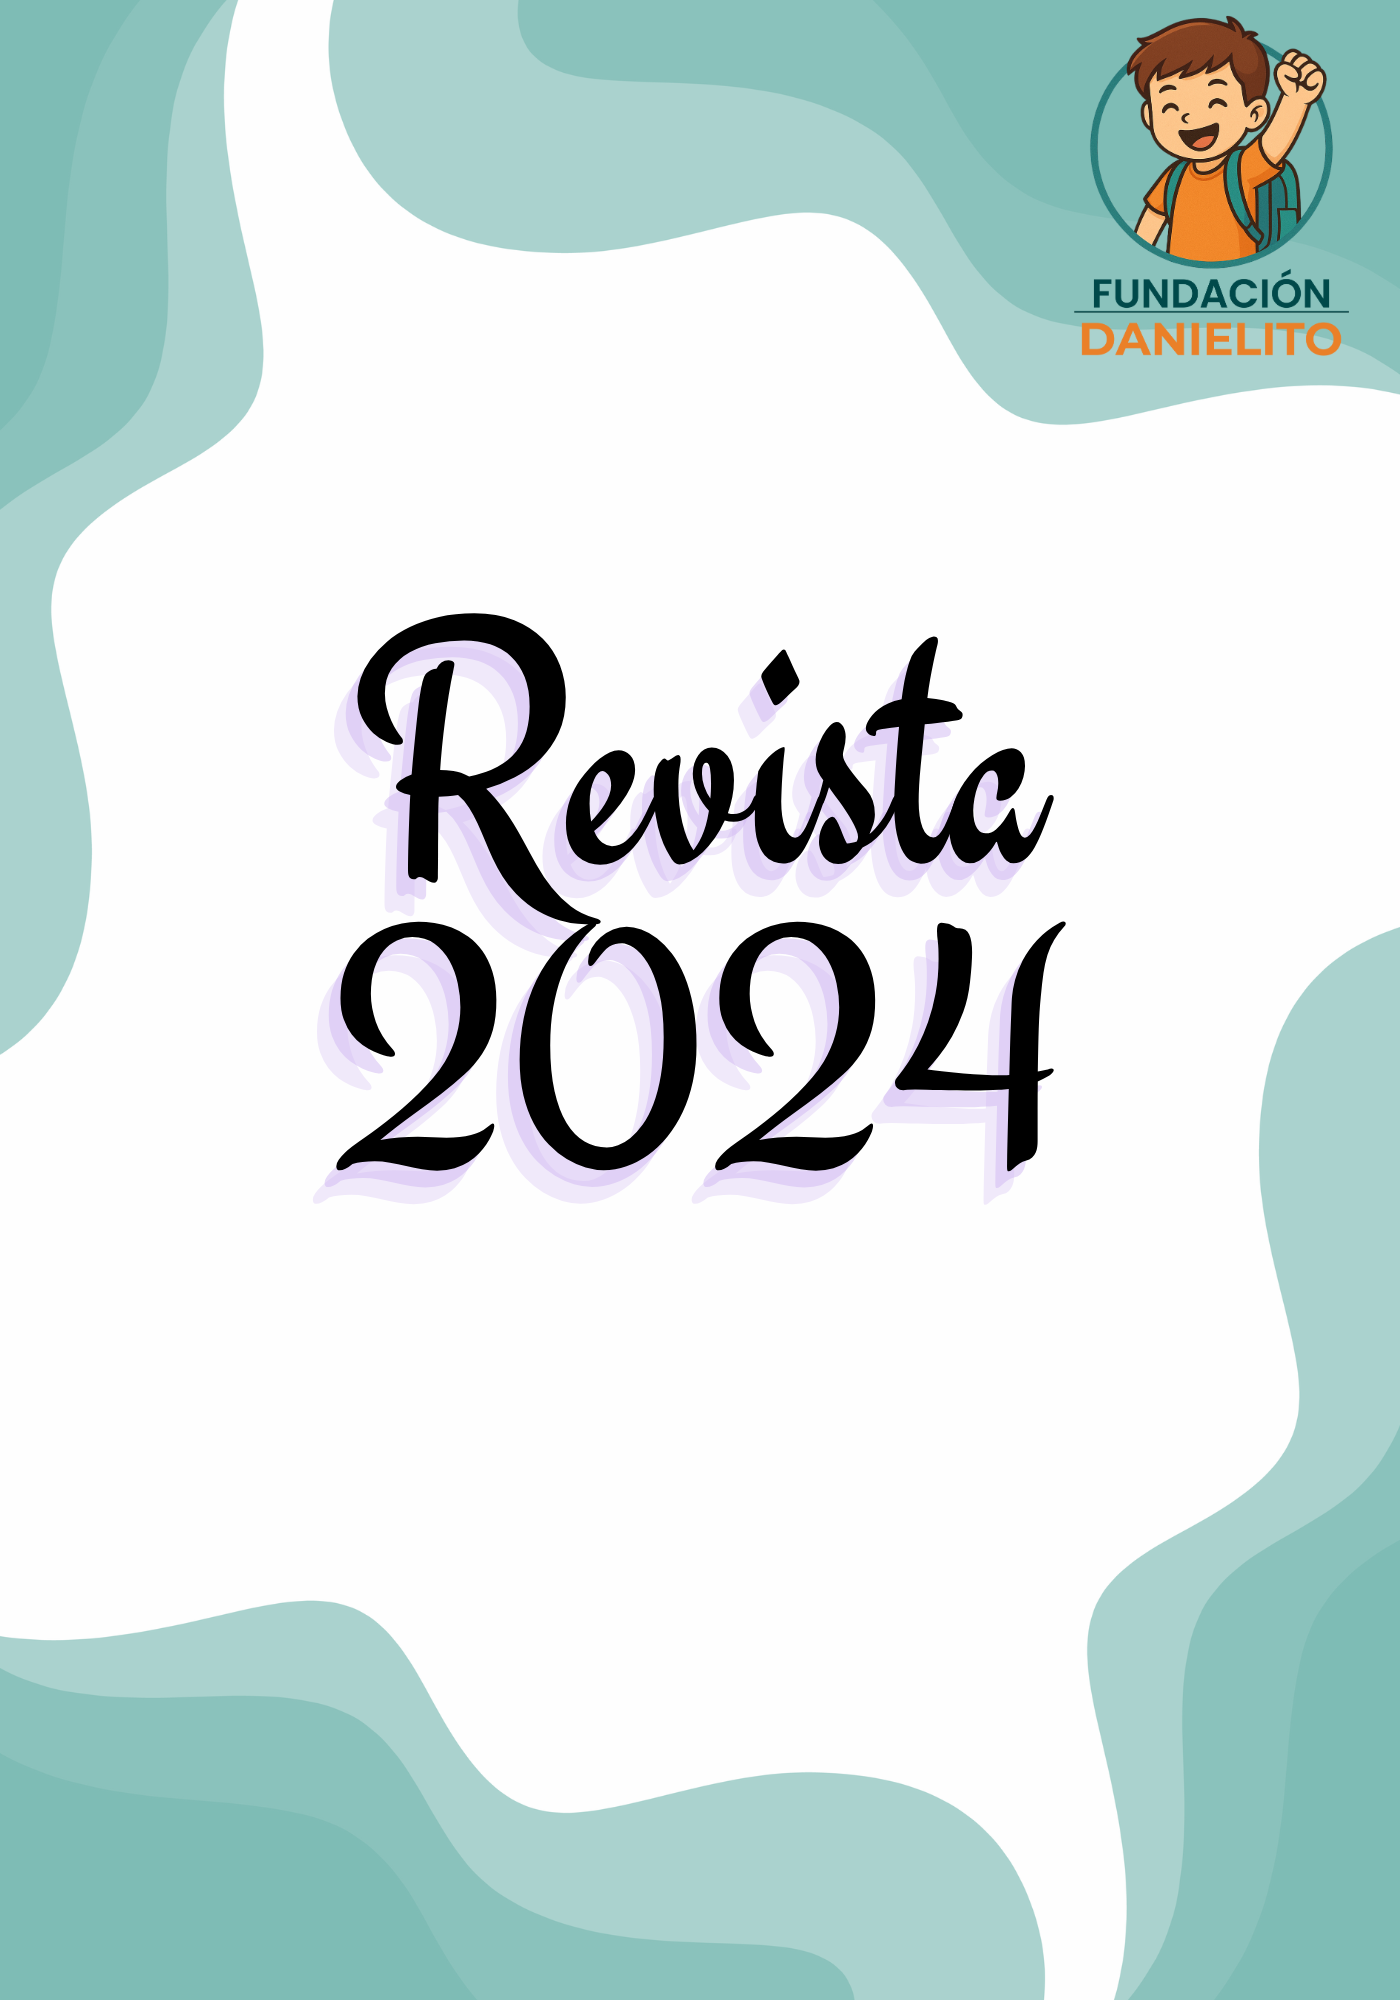
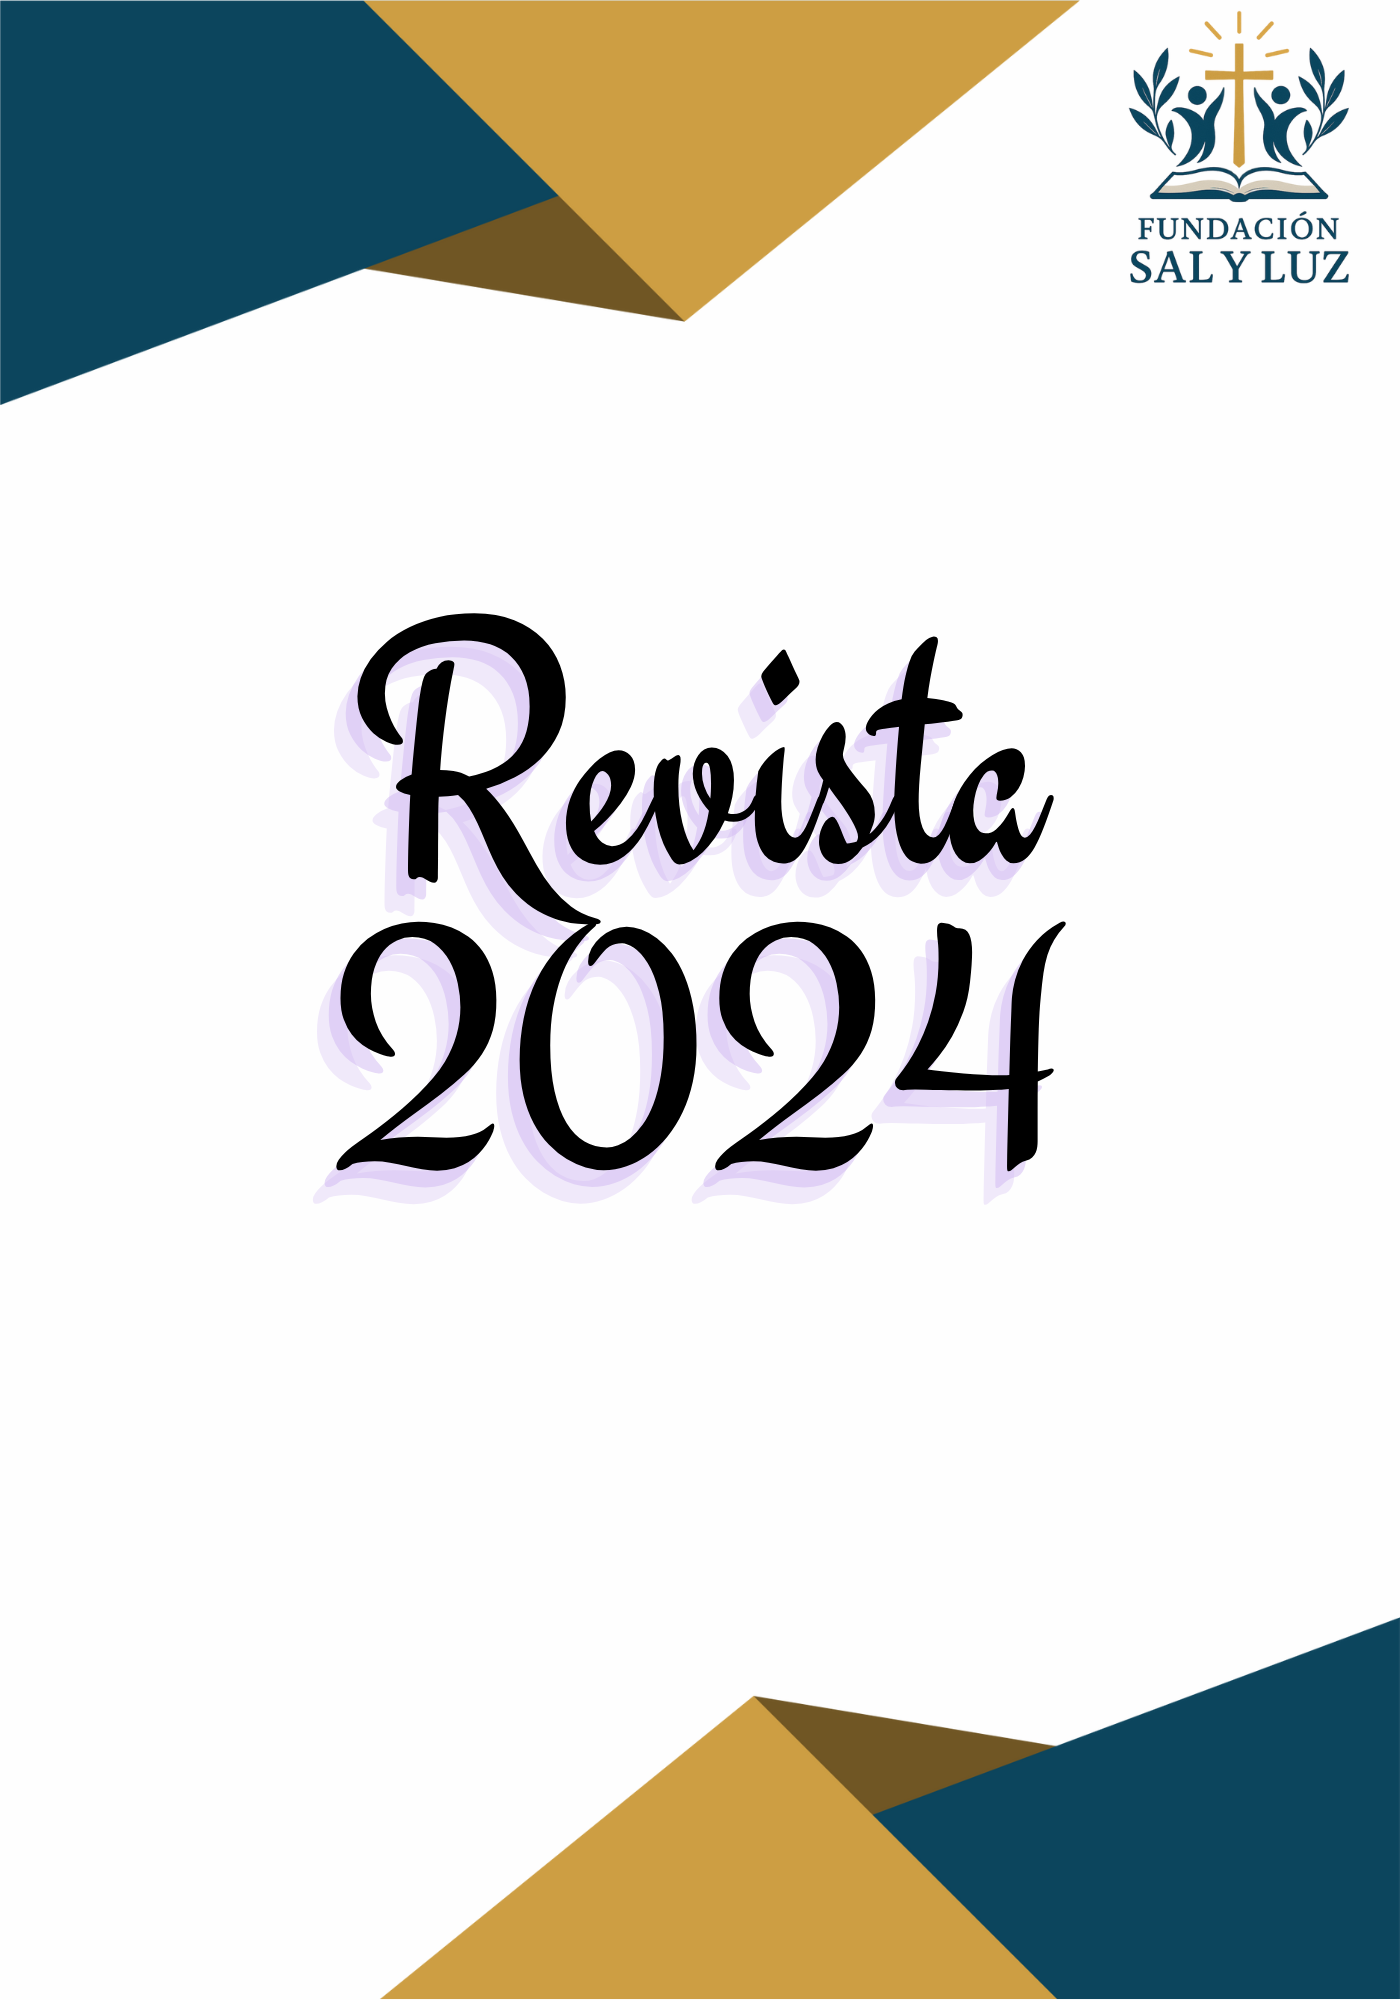
Primer código de ejemplo subido

diff --git a/src/components/AboutRamos.jsx b/src/components/AboutRamos.jsx
@@ -1,8 +1,8 @@
 import React,{ useEffect, useState } from 'react'
 import { TypeAnimation } from 'react-type-animation'
-import niño from '../assets/niño.png'
-import niño2 from '../assets/niño2.png'
-import fondo from '../assets/fondoQuienesSomos.JPG'
+import niño from '../assets/logofundacion1.png'
+import niño2 from '../assets/logoblanco.png'
+import fondo from '../assets/fondo1.png'
 // Para usar si necesito degradar colores className="w-full h-screen bg-gradient-to-b from-gray-800 to-black text-white "
 const AboutRamos = () => {
   const [mostrarPrimeraImagen, setMostrarPrimeraImagen] = useState(true)
@@ -25,18 +25,19 @@ const AboutRamos = () => {
       }}>
         
 
-       <div className="max-w-screen-lg px-4 mx-auto flex flex-col md:flex-row items-center justify-center w-full h-full gap-8 pt-10 ">
+       <div className="max-w-screen-lg px-4 mx-auto flex flex-col md:flex-row items-center justify-center w-full h-full gap-8 pt-32 md:pt-20 ">
         {/* TEXTO */}
         <div className="w-full md:w-1/2">
-          <p className="text-2xl sm:text-4xl md:text-5xl lg:text-5xl xl:text-5xl font-bold text-orange-one">
-            Creemos en los niños. Invertimos en su presente para transformar su futuro.
+          <p className="text-2xl sm:text-3xl md:text-4xl lg:text-4xl xl:text-4xl font-bold text-orange-one">
+            Queremos ser de bendición, esperanza y luz en comunidades marginadas. 
           </p>
 
-          <p className="text-1xl sm:text-2xl mt-6 text-green-one">
-            <strong>Misión:</strong> Brindar apoyo integral a niños y adolescentes en situación de vulnerabilidad, promoviendo su desarrollo físico, emocional y educativo.
+          <p className="text-1xl sm:text-xl mt-6 text-green-one">
+            <strong>Misión:</strong>  Brindar apoyo integral a comunidades en situación de vulnerabilidad, promoviendo el desarrollo espiritual, educativo y social, reflejando el amor de Dios de manera práctica y transformadora.
+
           </p>
-          <p className="text-1xl sm:text-2xl mt-6 text-green-one">
-            <strong>Visión:</strong> Construir un entorno donde todos los niños tengan oportunidades para un desarrollo digno y pleno.
+          <p className="text-1xl sm:text-xl mt-6 text-green-one">
+            <strong>Visión:</strong> Ser una fundación referente en transformación social cristocéntrica, generando cambios sostenibles en comunidades, familias e individuos a través del servicio, la fe y el compromiso.
           </p>
         </div>
 

diff --git a/src/components/VideoExampleComp.jsx b/src/components/VideoExampleComp.jsx
@@ -1,5 +1,6 @@
 import React, { useEffect, useRef } from 'react';
 import Video from '../assets/videoPropaganda2.mp4';
+import Logo from '../assets/logofundacion1.png'; // 🟢 Asegúrate de tener el logo aquí
 
 const VideoExampleComp = () => {
   const videoRef = useRef(null);
@@ -24,13 +25,20 @@ const VideoExampleComp = () => {
         Tu navegador no admite la reproducción de videos.
       </video>
 
-      {/* Texto centrado */}
+      {/* Contenido centrado */}
       <div className="relative z-10 flex flex-col items-center justify-center h-full px-4 text-center text-white">
+        {/* 🟡 Logo sobre el título */}
+        <img
+          src={Logo}
+          alt="Logo Fundación Sal y Luz"
+          className="w-36 sm:w-36 mb-4 drop-shadow-lg"
+        />
+
         <h1 className="text-3xl sm:text-5xl font-bold drop-shadow-lg">
-          Fundacion Danielito
+          Fundación Sal y Luz
         </h1>
         <p className="mt-4 text-lg sm:text-2xl drop-shadow">
-          Trabajamos con amor y entrega junto a familias, cuidadores y comunidades, transformando vidas con principios cristianos
+          Sé la luz que cambia la historia de un niño.
         </p>
       </div>
     </div>

diff --git a/public/index.html b/public/index.html
@@ -2,12 +2,12 @@
 <html lang="en">
   <head>
     <meta charset="utf-8" />
-    <link rel="icon" href="%PUBLIC_URL%/logotipoFundacionDanielito.png" />
+    <link rel="icon" href="%PUBLIC_URL%/logosalyluz.png" />
     <meta name="viewport" content="width=device-width, initial-scale=1" />
     <meta name="theme-color" content="#000000" />
     <meta
-      name="description"
-      content="Web site created using create-react-app"
+      name="Fundación Sal y Luz"
+      content="Fundación de ayuda a niños de escasos recursos"
     />
     <link rel="apple-touch-icon" href="%PUBLIC_URL%/logo192.png" />
     <!--
@@ -24,7 +24,7 @@
       work correctly both with client-side routing and a non-root public URL.
       Learn how to configure a non-root public URL by running `npm run build`.
     -->
-    <title>Fundación Danielito</title>
+    <title>Fundación Sal y Luz</title>
   </head>
   <body>
     <noscript>You need to enable JavaScript to run this app.</noscript>

diff --git a/src/components/Trabajos.jsx b/src/components/Trabajos.jsx
@@ -2,7 +2,7 @@ import React from 'react'
 import PatrocinadorUno from '../assets/patUnoaUno.png'
 import PatrocinadorProyecto from '../assets/patProyectos.png'
 import Donante from '../assets/donanteGeneral.png'
-import fondoDonaciones from '../assets/fondoDonaciones.JPG'
+import fondoDonaciones from '../assets/fondo5.png'
 
 const Trabajos = () => {
     const portfolios = [
@@ -45,7 +45,7 @@ const Trabajos = () => {
                     <p className="py-6">Conoce las maneras en que puedes apoyar</p>
                 </div>
 
-                <div className="grid sm:grid-cols-2 md:grid-cols-3 lg:grid-cols-3 gap-8 px-12 sm:px-0">
+                <div className="grid sm:grid-cols-2 md:grid-cols-3 lg:grid-cols-3 gap-8 px-12 sm:px-0 bg-white">
                     {
                         portfolios.map(({ id, src, tipo, cliente, href,area }) => (
                             <div key={id} className="shadow-md shadow-gray-600 rounded-lg">

diff --git a/src/components/NavBarRamos.jsx b/src/components/NavBarRamos.jsx
@@ -46,7 +46,7 @@ const NavBarRamos = () => {
 
                 {/* Botón a Página Donaciones */}
                 <li>
-                    <div className='border border-orange-one border-solid rounded p-1'>
+                    <div className='border border-orange-one border-solid rounded px-4'>
                         
                         <Link 
                         to={'/donacionespage'}>
@@ -57,7 +57,7 @@ const NavBarRamos = () => {
                 </li>
                 {/* Botón de WhatsApp */}
                 <li>
-                    <div className='border border-orange-one border-solid rounded p-1'>
+                    <div className='border border-orange-one border-solid rounded px-4'>
                         <ReactWhatsapp
                             number="+59177027843"
                             message="Saludos, necesito Información sobre la Fundación Danielito"

diff --git a/src/components/ServiciosRamos.jsx b/src/components/ServiciosRamos.jsx
@@ -3,7 +3,7 @@ import Cdi from '../assets/1.png';
 import CdiUribicha from '../assets/2.png';
 import ProyectoBendicion from '../assets/3.png';
 import FamiliasSaludables from '../assets/4.png';
-import fondoProgramas from '../assets/fondoProgramas.jpg';
+import fondoProgramas from '../assets/fondo4.png';
 
 const ServiciosRamos = () => {
   const portfolios = [
@@ -47,7 +47,7 @@ const ServiciosRamos = () => {
     >
       <div className="max-w-screen-lg p-4 mx-auto flex flex-col justify-center w-full h-full">
         <div className="pb-8 flex flex-col justify-center items-center">
-          <p className="text-5xl text-white font-montserrat inline justify-center border-b-4 border-orange-one">
+          <p className="text-5xl text-green-one font-montserrat inline justify-center border-b-4 border-orange-one">
             Programas
           </p>
         </div>

diff --git a/src/components/Revista.jsx b/src/components/Revista.jsx
@@ -24,7 +24,7 @@ export default function Revista() {
           
           {/* Botón de descarga */}
           <a
-            href= 'https://drive.google.com/file/d/14bl2H7Jdzu7rUWN_Cp7B3y2VPrEAh8gq/view?usp=sharing'
+            href= 'https://drive.google.com/file/d/1xYkQdPRtO19CsyFeOS7pin8iILOVpzEb/view?usp=sharing'
             target="_blank"
             rel="noopener noreferrer"
             //download

diff --git a/tailwind.config.js b/tailwind.config.js
@@ -4,9 +4,10 @@ module.exports = {
   theme: {
     extend: {
       colors: {
-        'green-one': '#1d4a4b',
+        'green-one': '#0f425a',
         'green-two': '#31706e',
-        'orange-one': '#ea8028',
+        'orange-one': '#cf9f46',
+        'white-ice': '#faf5ee',
         // agrega aquí los colores que necesites
       },
     },
